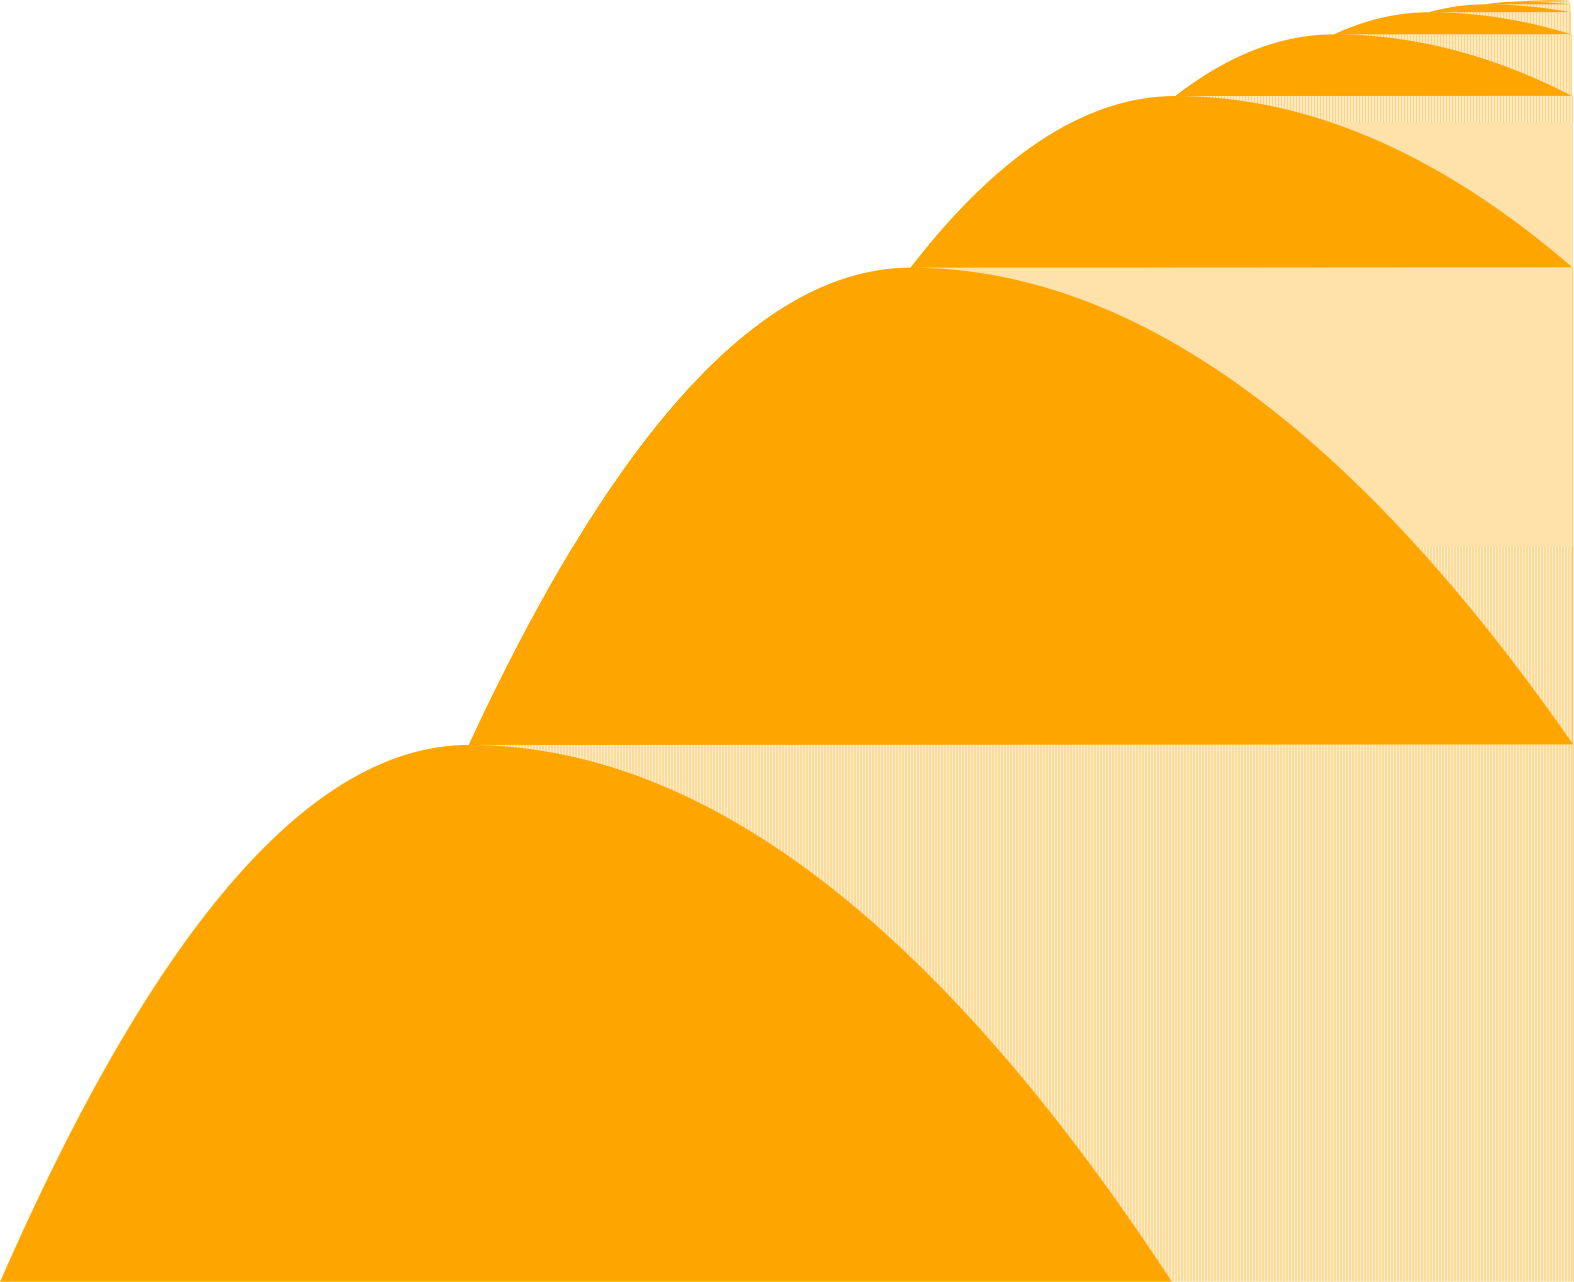
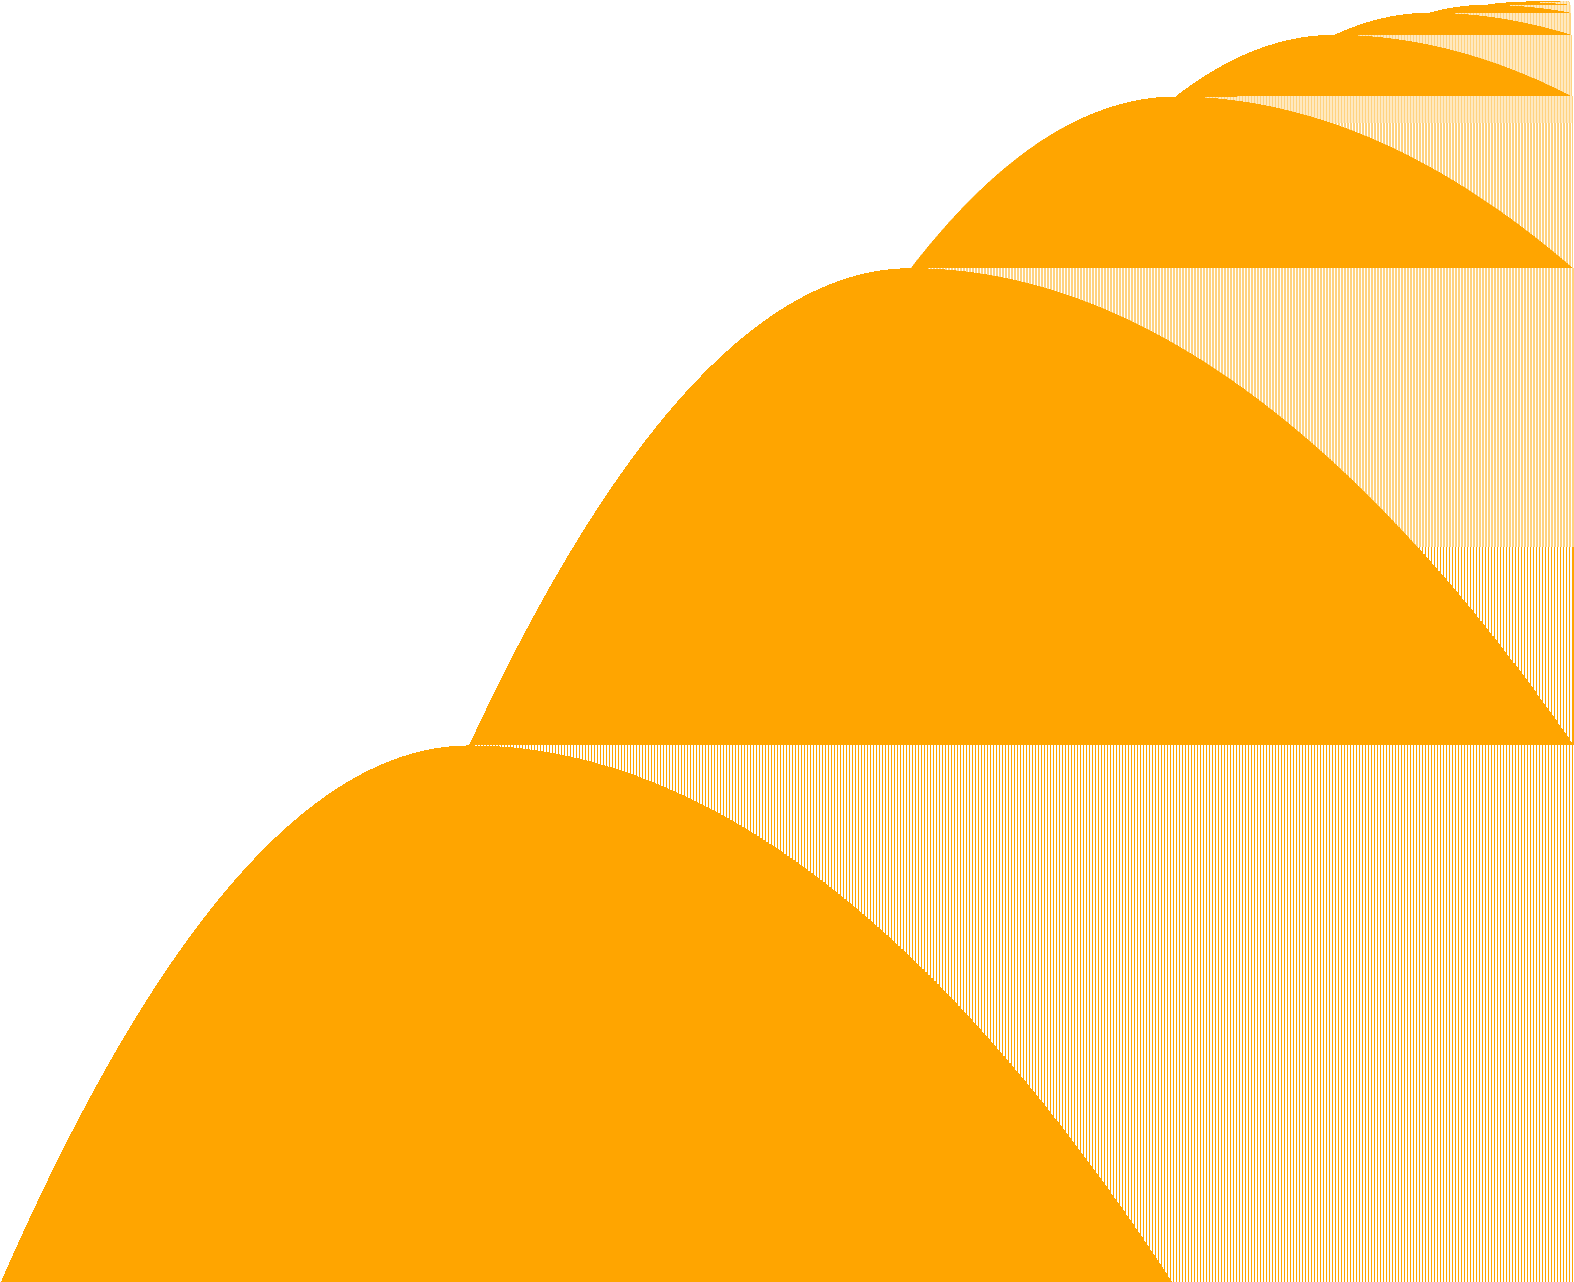
fix bugs in max samples

Changed region(s): [[0.0, 0.0936, 1.0, 1.0], [0.9339, 0.0, 0.9962, 0.0312]]

diff --git a/src/lib.rs b/src/lib.rs
@@ -547,15 +547,14 @@ impl Pixel {
 
     // cmk00speed
     fn merge_slice_down_sample(slice: &[Self], empty_count: i64, down_step: u64) -> Self {
-        // cmk0000 change these to debug_assert
-        if fast_mod(slice.len() as u64 + empty_count as u64, down_step) as usize != 0 {
-            println!("real assert d1 {slice:?}+{empty_count} down_step={down_step}");
-        }
-        assert!(
+        // if fast_mod(slice.len() as u64 + empty_count as u64, down_step) as usize != 0 {
+        //     println!("real assert d1 {slice:?}+{empty_count} down_step={down_step}");
+        // }
+        debug_assert!(
             fast_mod(slice.len() as u64 + empty_count as u64, down_step) as usize == 0,
             "real assert d1"
         );
-        assert!(
+        debug_assert!(
             down_step.is_power_of_two() && down_step > 0,
             "real assert d3"
         );
@@ -566,9 +565,6 @@ impl Pixel {
         let count = fast_div(slice.len() + empty_count as usize, down_step as usize);
         debug_assert!(count.is_power_of_two(), "Count must be a power of two");
         let mean = fast_div(sum as usize, count) as u8;
-        // if down_step > 1 {
-        //     println!("cmk merge_slice_down_sample {slice:?}+{empty_count} down_step={down_step} mean {mean} count {count} sum {sum}");
-        // }
         Pixel(mean)
     }
 
@@ -653,17 +649,12 @@ impl Spaceline {
             "real assert d10"
         );
 
-        let (down_sample, down_step) = compute_sample_step(sample, self.max_sample);
-        let rel_sample = fast_div(down_step, self.sample);
-        println!(
-            "cmk input: {sample}, {}, output: {down_sample}, {down_step} rel_sample {rel_sample}",
-            self.max_sample
-        );
-
+        let (_down_sample, down_step) = compute_sample_step(sample, self.max_sample);
+        // cmk000 let rel_sample = fast_div(down_step, self.sample);
         let pixel0 = Pixel::merge_slice_down_sample(
             &self.pixels[..old_items_to_use as usize],
             old_items_to_add,
-            rel_sample,
+            down_step,
         );
 
         let mut new_index = 0usize;
@@ -677,7 +668,7 @@ impl Spaceline {
             let slice = &self.pixels[old_index as usize..old_end as usize];
             let old_items_to_add = old_items_per_new - (old_end - old_index);
             self.pixels[new_index] =
-                Pixel::merge_slice_down_sample(slice, old_items_to_add, rel_sample);
+                Pixel::merge_slice_down_sample(slice, old_items_to_add, down_step);
             new_index += 1;
         }
 
@@ -770,7 +761,7 @@ impl Spaceline {
         } else {
             // For x_sample > 1, process as before.
 
-            // cmk0000 for now, we allocate on the heap. May want to special case down_sample==1 or use SmallVec for 0 to say 8.
+            // cmk00 for now, we allocate on the heap. May want to special case down_sample==1 or use SmallVec for 0 to say 8.
 
             let (down_sample, down_step) = compute_sample_step(x_sample, max_x_sample);
             let mut pixel_range = vec![Pixel(0); down_sample as usize];
@@ -797,31 +788,10 @@ impl Spaceline {
 
 pub const MAX_POWER_OF_TWO_U64: u64 = 1 << 63; // cmk good name?
 
-// impl Default for Spaceline {
-//     fn default() -> Self {
-//         Spaceline {
-//             sample: 1,
-//             start: 0,
-//             pixels: vec![PIXEL_WHITE; 1],
-//             time: 0,
-//             max_sample: MAX_POWER_OF_TWO_U64, // cmk00000 is this a good default or is 1 better?
-//         }
-//     }
-// }
-
 struct Spacelines {
     main: Vec<Spaceline>,
     buffer: Vec<Spaceline>,
 }
-
-// impl Default for Spacelines {
-//     fn default() -> Self {
-//         Spacelines {
-//             main: vec![Spaceline::default()],
-//             buffer: Vec::new(),
-//         }
-//     }
-// }
 
 impl Spacelines {
     fn new(max_sample: u64) -> Self {
@@ -843,7 +813,7 @@ impl Spacelines {
     }
 
     fn flush_buffer(&mut self) {
-        // cmk0000 we now have a buffer that needs to be flushed at the end
+        // We now have a buffer that needs to be flushed at the end
         if !self.buffer.is_empty() {
             assert!(self.buffer.len() == 1, "real assert 13");
             self.main.push(self.buffer.pop().unwrap());
@@ -854,7 +824,7 @@ impl Spacelines {
     fn compress_average(&mut self) {
         assert!(self.buffer.is_empty(), "real assert b2");
         assert!(fast_is_even(self.main.len()), "real assert 11");
-        println!("cmk compress_average");
+        // println!("cmk compress_average");
 
         self.main = self
             .main
@@ -872,7 +842,7 @@ impl Spacelines {
     fn compress_take_first(&mut self, new_sample: u64) {
         assert!(self.buffer.is_empty(), "real assert e2");
         assert!(fast_is_even(self.main.len()), "real assert e11");
-        println!("cmk compress_take_first");
+        // println!("cmk compress_take_first");
         self.main
             .retain(|spaceline| fast_mod(spaceline.time, new_sample) == 0);
     }
@@ -895,7 +865,7 @@ impl Spacelines {
         for inside_index in last_inside_index + 1..y_sample {
             let (_down_sample, down_step) = compute_sample_step(y_sample, max_y_sample);
             if fast_mod(inside_index, down_step) != 0 {
-                continue; // cmk000 use step_by instead of this
+                continue; // cmk00 use step_by instead of this
             }
             let inside_inside_index = fast_div(inside_index, down_step);
 
@@ -907,12 +877,6 @@ impl Spacelines {
                 max_sample: buffer_last.max_sample,
             };
             Spacelines::push_internal(&mut buffer, inside_inside_index, empty);
-            // print inside_index and buffer len
-            // println!(
-            //     "cmk000 inside_index {}, buffer len {}",
-            //     inside_index,
-            //     buffer.len()
-            // );
         }
         assert!(buffer.len() == 1, "real assert b3");
         buffer.pop().unwrap()
@@ -1039,10 +1003,6 @@ impl SampledSpaceTime {
 
         for y in 0..y_actual {
             let spaceline = &self.spacelines.get(y as usize, &last);
-            if y == y_actual - 1 {
-                // We need to fold in the buffer without modifying it.
-                // cmk000
-            }
             let local_start = spaceline.start;
             let local_sample = spaceline.sample;
             let rel_sample = x_sample / local_sample;
@@ -1067,7 +1027,7 @@ impl SampledSpaceTime {
                             .unwrap_or(PIXEL_WHITE)
                     })
                     .collect::<Vec<_>>();
-                // cmk000 look at putting this back in
+                // cmk look at putting this back in
                 // if local_spaceline_index >= spaceline.pixels.len() as i64 {
                 //     break;
                 // }
@@ -1285,7 +1245,7 @@ fn fast_rem_euclid(dividend: i64, divisor: u64) -> i64 {
 /// sample_out = min(sample, max_sample)
 /// step = sample / sample_out
 /// ```
-// cmk0000#[inline(always)]
+#[inline(always)]
 fn compute_sample_step(sample: u64, max_sample: u64) -> (u64, u64) {
     debug_assert!(
         sample.is_power_of_two() && max_sample.is_power_of_two(),

diff --git a/examples/frame.rs b/examples/frame.rs
@@ -59,8 +59,8 @@ fn main() -> Result<(), Box<dyn std::error::Error>> {
         .unwrap_or(Resolution::Tiny); // cmk2K
     let (goal_x, goal_y) = resolution.dimensions();
 
-    let max_x_sample = 2; // MAX_POWER_OF_TWO_U64;
-    let max_y_sample = 4; // MAX_POWER_OF_TWO_U64;
+    let max_x_sample = 1; // MAX_POWER_OF_TWO_U64;
+    let max_y_sample = 4;
 
     let (up_x, up_y) = (goal_x, goal_y);
     let (mut space_time_machine, end_step, num_frames, (output_dir, run_id)) = match machine_name
